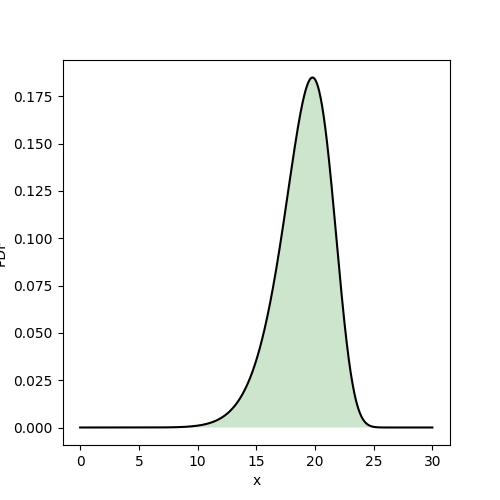
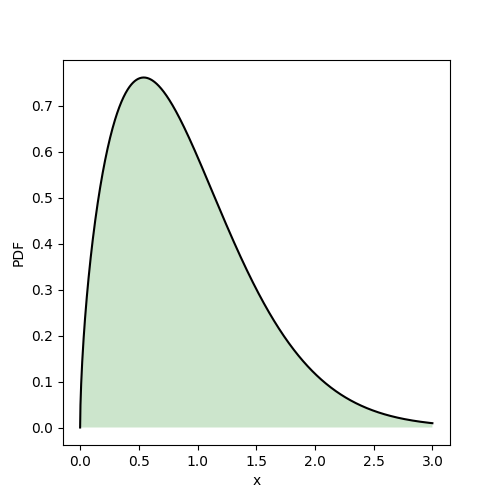
.

diff --git a/statistics/weibull_distribution.py b/statistics/weibull_distribution.py
@@ -5,14 +5,14 @@ from scipy.special import gamma
 # https://docs.scipy.org/doc/scipy/reference/generated/scipy.stats.weibull_min.html
 
 #%% Weibull Distribution
-k = 10
-lambda0 = 20
+k = 1.6
+lambda0 = 1
 # Calculate the expected wait time
 expected_wait_time = lambda0 * gamma(1 + 1/k)
 print(expected_wait_time)
 
 # Plot PDF
-x = np.linspace(0, 30, 1000)
+x = np.linspace(0, 3, 1000)
 y0 = weibull_min.rvs(10)
 y = weibull_min.pdf(x, k, scale=lambda0)
 
